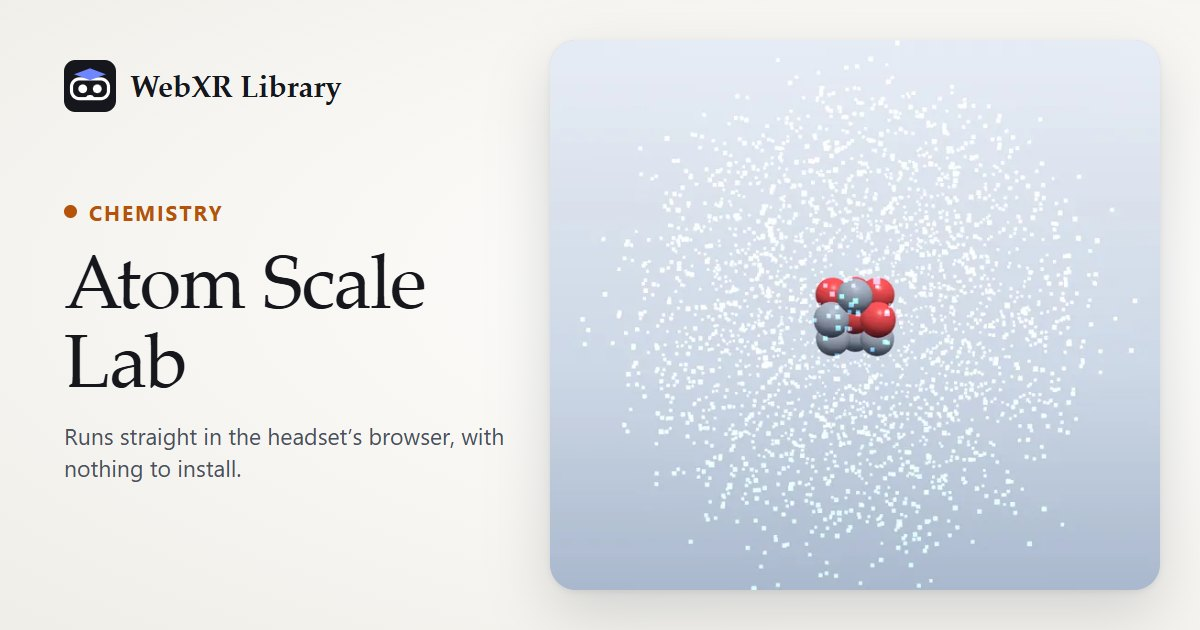
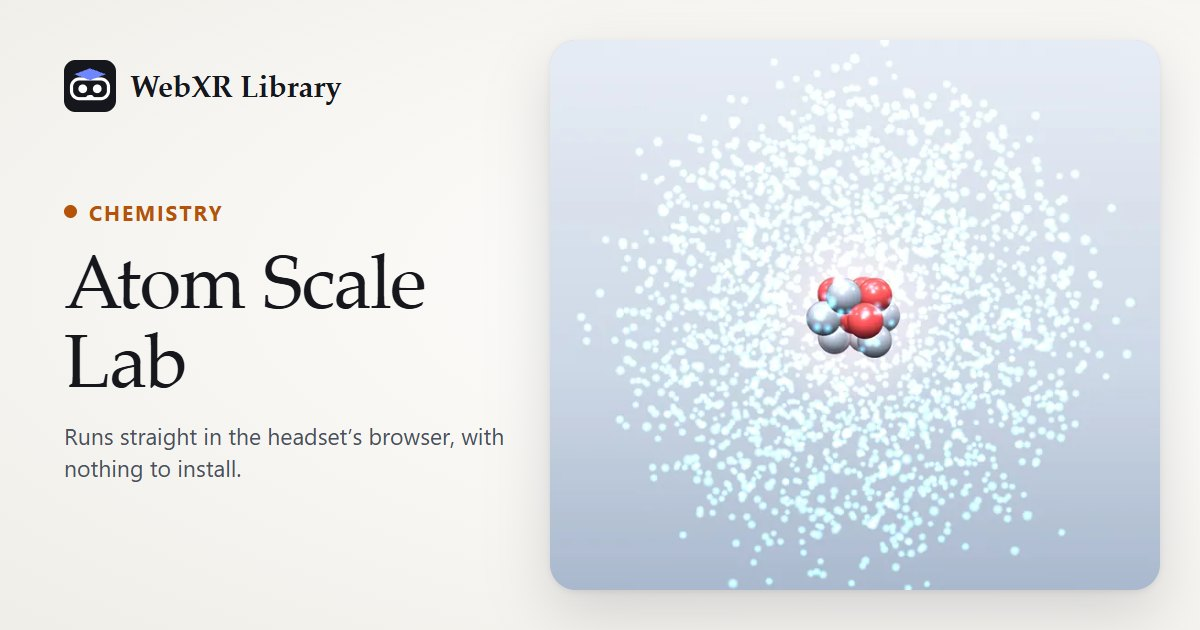
Atomic Models: glossy particles, glowing electrons with fading orbit trails, glowing shells and nucleus, softer electron cloud, glossy molecule models

Changed region(s): [[0.4933, 0.2111, 0.925, 0.9048], [0.6783, 0.9048, 0.7092, 0.9349], [0.5858, 0.9048, 0.6167, 0.9349]]

diff --git a/lessons/atomic-models/src/models/AtomModel.js b/lessons/atomic-models/src/models/AtomModel.js
@@ -1,6 +1,7 @@
 import * as THREE from 'three';
 import { shellsFor } from '../data/elements.js';
 import { clearGroup } from '../../../../shared/ui/labels.js';
+import { glossy, halo, trail, softDot } from './looks.js';
 
 // Bohr-style atom: packed nucleus of protons + neutrons, electrons on shells.
 // NOT to scale (the Scale mode shows the real proportions).
@@ -47,8 +48,8 @@ export class AtomModel {
 
     this.geoNucleon = new THREE.SphereGeometry(NUCLEON_R, 24, 16);
     this.geoElectron = new THREE.SphereGeometry(0.009, 16, 12);
-    this.matP = new THREE.MeshStandardMaterial({ color: COLORS.proton, roughness: 0.35 });
-    this.matN = new THREE.MeshStandardMaterial({ color: COLORS.neutron, roughness: 0.45 });
+    this.matP = glossy(COLORS.proton);
+    this.matN = glossy(COLORS.neutron, { roughness: 0.4 });
     this.matE = new THREE.MeshStandardMaterial({ color: COLORS.electron, emissive: 0x1a8fd0, emissiveIntensity: 1.3 });
     this.shared = new Set([this.geoNucleon, this.geoElectron, this.matP, this.matN, this.matE]);
 
@@ -90,6 +91,7 @@ export class AtomModel {
       this.nucleus.add(m);
     });
     this.nucleusRadius = maxR + NUCLEON_R;
+    this.nucleus.add(halo(0xff8a6a, this.nucleusRadius * 4, 0.25));
   }
 
   buildElectrons(e, view) {
@@ -111,9 +113,10 @@ export class AtomModel {
       const tilt = new THREE.Group();
       tilt.rotation.set(0.35 + k * 0.55, k * 1.15, 0);
       const ring = new THREE.Mesh(
-        new THREE.TorusGeometry(r, 0.0013, 6, 128),
-        new THREE.MeshBasicMaterial({ color: 0x8c9bff, transparent: true, opacity: 0.4 }),
+        new THREE.TorusGeometry(r, 0.0012, 6, 160),
+        new THREE.MeshBasicMaterial({ color: 0x6f86ff, transparent: true, opacity: 0.35, blending: THREE.AdditiveBlending, depthWrite: false, toneMapped: false }),
       );
+      ring.raycast = () => {};
       tilt.add(ring);
       const orbit = new THREE.Group();
       for (let i = 0; i < count; i++) {
@@ -121,7 +124,8 @@ export class AtomModel {
         const el = new THREE.Mesh(this.geoElectron, this.matE);
         el.userData.part = 'electron';
         el.position.set(Math.cos(a) * r, Math.sin(a) * r, 0);
-        orbit.add(el);
+        el.add(halo(COLORS.electron, 0.04, 0.8));
+        orbit.add(el, trail(r, a, Math.min(1.4, (Math.PI * 2) / count * 0.7), COLORS.electron));
       }
       orbit.userData.speed = 1.1 / (k + 1);
       tilt.add(orbit);
@@ -145,16 +149,16 @@ export class AtomModel {
     const geo = new THREE.BufferGeometry();
     geo.setAttribute('position', new THREE.Float32BufferAttribute(positions, 3));
     this.cloud = new THREE.Points(geo, new THREE.PointsMaterial({
-      color: COLORS.electron, size: 0.0035, transparent: true, opacity: 0.6,
-      depthWrite: false, blending: THREE.AdditiveBlending,
+      color: COLORS.electron, size: 0.008, map: softDot(), transparent: true, opacity: 0.9,
+      depthWrite: false, blending: THREE.AdditiveBlending, toneMapped: false,
     }));
     this.electrons.add(this.cloud);
   }
 
   /** Every proton, neutron and (in shell view) electron can be picked up. */
   get grabTargets() {
-    const t = [...this.nucleus.children];
-    for (const o of this.orbits) t.push(...o.children);
+    const t = this.nucleus.children.filter((c) => c.userData.part);
+    for (const o of this.orbits) t.push(...o.children.filter((c) => c.userData.part));
     return t;
   }
 

diff --git a/lessons/atomic-models/src/models/looks.js b/lessons/atomic-models/src/models/looks.js
@@ -1,0 +1,58 @@
+import * as THREE from 'three';
+
+// How the particles look: glossy balls (like a polished model kit), soft glows, and fading orbit trails.
+
+let dot = null;
+/** A soft round glow (white in the middle, fading to nothing), for halos and cloud dots. */
+export function softDot() {
+  if (dot) return dot;
+  const c = document.createElement('canvas');
+  c.width = c.height = 64;
+  const g = c.getContext('2d');
+  const r = g.createRadialGradient(32, 32, 0, 32, 32, 32);
+  r.addColorStop(0, 'rgba(255,255,255,1)');
+  r.addColorStop(0.3, 'rgba(255,255,255,0.55)');
+  r.addColorStop(1, 'rgba(255,255,255,0)');
+  g.fillStyle = r;
+  g.fillRect(0, 0, 64, 64);
+  dot = new THREE.CanvasTexture(c);
+  return dot;
+}
+
+/** A glossy ball material (atoms, protons, neutrons). */
+export const glossy = (color, extra = {}) => new THREE.MeshPhysicalMaterial({
+  color, roughness: 0.32, metalness: 0, clearcoat: 0.9, clearcoatRoughness: 0.12, envMapIntensity: 0.8, ...extra,
+});
+
+/** A glowing halo sprite (it can't be picked: picking goes to the particle itself). */
+export function halo(color, size, opacity = 0.7) {
+  const s = new THREE.Sprite(new THREE.SpriteMaterial({ map: softDot(), color, transparent: true, opacity, depthWrite: false, blending: THREE.AdditiveBlending, toneMapped: false }));
+  s.scale.setScalar(size);
+  s.raycast = () => {};
+  return s;
+}
+
+/**
+ * A fading trail behind an electron on a circular orbit of radius r (in the orbit's plane), from angle `a`
+ * back through `length` radians: bright at the electron, fading to nothing.
+ */
+export function trail(r, a, length, color, width = 0.0022) {
+  const pts = [];
+  const n = 40;
+  for (let i = 0; i <= n; i++) {
+    const t = a - (i / n) * length;
+    pts.push(new THREE.Vector3(Math.cos(t) * r, Math.sin(t) * r, 0));
+  }
+  const radial = 6;
+  const geo = new THREE.TubeGeometry(new THREE.CatmullRomCurve3(pts), n, width, radial, false);
+  const col = new THREE.Color(color);
+  const colors = [];
+  for (let i = 0; i <= n; i++) {
+    const k = (1 - i / n) ** 1.6; // additive: fading to black = fading away
+    for (let j = 0; j <= radial; j++) colors.push(col.r * k, col.g * k, col.b * k);
+  }
+  geo.setAttribute('color', new THREE.Float32BufferAttribute(colors, 3));
+  const m = new THREE.Mesh(geo, new THREE.MeshBasicMaterial({ vertexColors: true, transparent: true, depthWrite: false, blending: THREE.AdditiveBlending, toneMapped: false }));
+  m.raycast = () => {};
+  return m;
+}

diff --git a/lessons/atomic-models/src/models/MoleculeBuilder.js b/lessons/atomic-models/src/models/MoleculeBuilder.js
@@ -1,4 +1,5 @@
 import * as THREE from 'three';
+import { glossy } from './looks.js';
 import { bySymbol, VDW_RADII } from '../data/elements.js';
 import { BUILD_ATOMS, bondLength, bondEnergy, idealAngle, formulaOf, formulaKey, KNOWN } from '../data/bonding.js';
 import { sound } from '../../../../shared/util/sound.js';
@@ -62,7 +63,7 @@ export class MoleculeBuilder {
     this.sphere = new THREE.SphereGeometry(1, 32, 20);
     this.cylinder = new THREE.CylinderGeometry(1, 1, 1, 12);
     this.mats = new Map();
-    this.bondMat = new THREE.MeshStandardMaterial({ color: 0xd8dbe8, roughness: 0.5 });
+    this.bondMat = glossy(0xd8dbe8, { roughness: 0.4, clearcoat: 0.5 });
     this.strainMat = new THREE.MeshStandardMaterial({ color: 0xff8a5c, emissive: 0x802000, roughness: 0.5 });
     this.pairGeo = new THREE.SphereGeometry(0.0055, 12, 8);
     this.pairMat = new THREE.MeshStandardMaterial({ color: 0x4cc9ff, emissive: 0x1a8fd0, emissiveIntensity: 1.2 });
@@ -83,7 +84,7 @@ export class MoleculeBuilder {
   // ───────────── model ─────────────
 
   material(sym) {
-    if (!this.mats.has(sym)) this.mats.set(sym, new THREE.MeshStandardMaterial({ color: bySymbol(sym).color, roughness: 0.35 }));
+    if (!this.mats.has(sym)) this.mats.set(sym, glossy(bySymbol(sym).color));
     return this.mats.get(sym);
   }
 

diff --git a/lessons/atomic-models/src/models/MoleculeModel.js b/lessons/atomic-models/src/models/MoleculeModel.js
@@ -2,6 +2,7 @@ import * as THREE from 'three';
 import { MOLECULES } from '../data/molecules.js';
 import { bySymbol, VDW_RADII, IONIC_RADII } from '../data/elements.js';
 import { clearGroup } from '../../../../shared/ui/labels.js';
+import { glossy } from './looks.js';
 
 // 1 Å (10⁻¹⁰ m) is shown as 10 cm → the model is magnified one billion times.
 export const MOLECULE_SCALE = 0.1;
@@ -21,7 +22,7 @@ export class MoleculeModel {
     this.key = '';
     this.materials = new Map();
     this.sphere = new THREE.SphereGeometry(1, 32, 20);
-    this.bondMat = new THREE.MeshStandardMaterial({ color: 0xd8dbe8, roughness: 0.5 });
+    this.bondMat = glossy(0xd8dbe8, { roughness: 0.4, clearcoat: 0.5 });
     this.extentA = 0;
     this.fit = 1;
   }
@@ -29,7 +30,7 @@ export class MoleculeModel {
   material(symbol) {
     if (!this.materials.has(symbol)) {
       const el = bySymbol(symbol);
-      this.materials.set(symbol, new THREE.MeshStandardMaterial({ color: el ? el.color : 0xff00ff, roughness: 0.35 }));
+      this.materials.set(symbol, glossy(el ? el.color : 0xff00ff));
     }
     return this.materials.get(symbol);
   }

diff --git a/lessons/atomic-models/src/models/AtomBuilder.js b/lessons/atomic-models/src/models/AtomBuilder.js
@@ -1,4 +1,5 @@
 import * as THREE from 'three';
+import { glossy } from './looks.js';
 import { MAX_Z } from '../data/elements.js';
 import { COLORS } from './AtomModel.js';
 import * as X from '../chemist/explain.js';
@@ -48,9 +49,7 @@ export class AtomBuilder {
     }
     app.explain(X.particlePicked(kind, fromAtom, before, { ...app.state.atom }));
 
-    const mesh = new THREE.Mesh(this.geo, new THREE.MeshStandardMaterial({
-      color: COLORS[kind], emissive: kind === 'electron' ? 0x1a8fd0 : 0x000000, roughness: 0.35,
-    }));
+    const mesh = new THREE.Mesh(this.geo, glossy(COLORS[kind], { emissive: kind === 'electron' ? 0x1a8fd0 : 0x000000 }));
     mesh.scale.setScalar(kind === 'electron' ? 0.012 : 0.016);
     mesh.position.copy(app.lab.worldToLocal(world.clone()));
     app.lab.add(mesh);

diff --git a/lessons/atomic-models/src/main.js b/lessons/atomic-models/src/main.js
@@ -1,5 +1,6 @@
 import * as THREE from 'three';
 import { LessonApp } from '../../../shared/LessonApp.js';
+import { studioReflections } from '../../../shared/util/reflections.js';
 import { getElement, MAX_Z, bySymbol } from './data/elements.js';
 import { AtomModel } from './models/AtomModel.js';
 import { MoleculeModel } from './models/MoleculeModel.js';
@@ -44,6 +45,7 @@ class App extends LessonApp {
   // ───────────── setup ─────────────
 
   initLesson() {
+    studioReflections(this); // glossy particles and atoms
     this.atom = new AtomModel();
     this.molecule = new MoleculeModel();
     this.scale = new ScaleExplorer();
